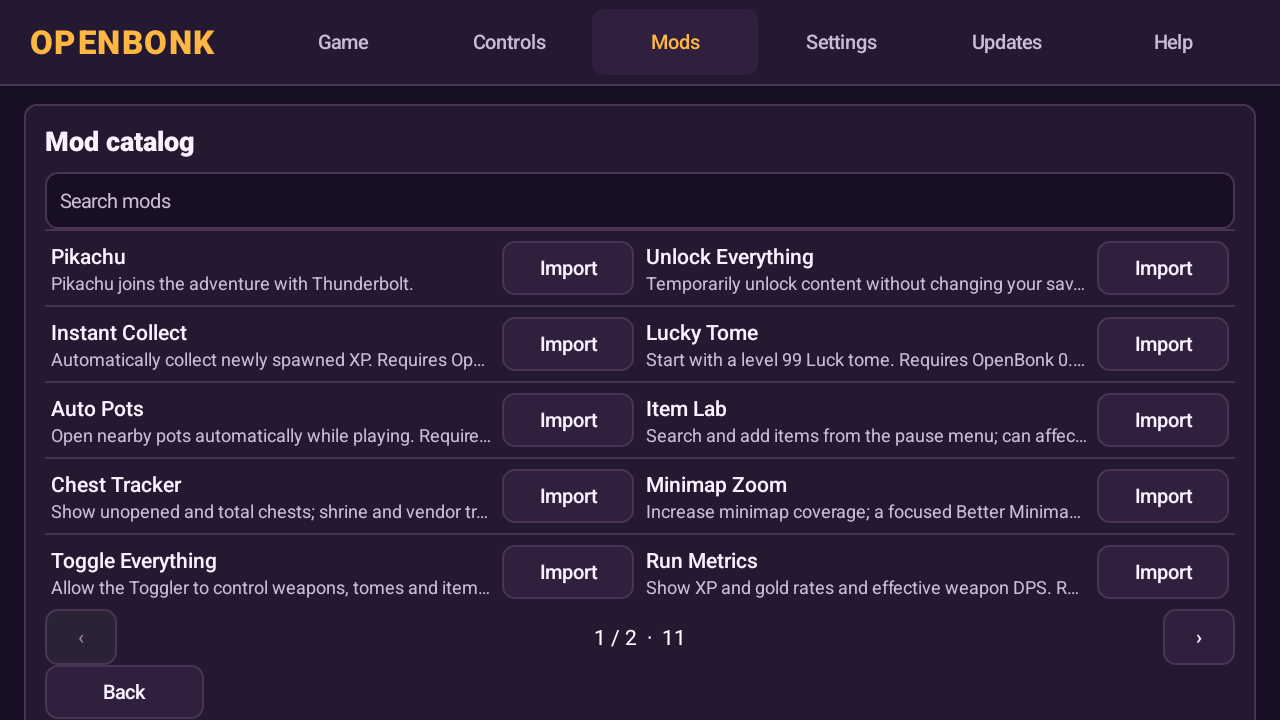
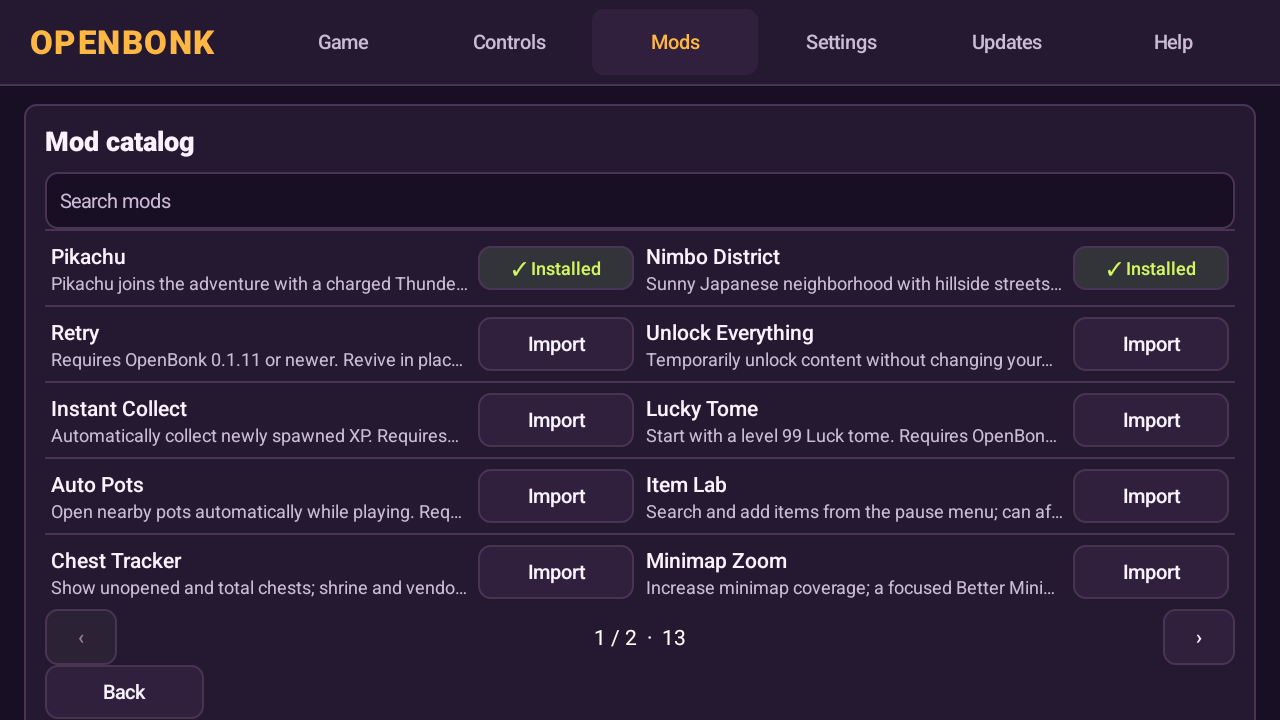
Refresh the README for the mod catalog, content mods and PC aspect
Document the current beta: catalog updates and auto-enabled content mods,
Nimbo District and the charged Thunderbolt example, the render resolution and
16:9 (PC) aspect options, touch aiming, the launcher data flow, and the
installer/update behavior. Refresh the catalog screenshot and add the display
settings and Nimbo screenshots. Update the modding guide to match the new
import/update behavior.

diff --git a/README.md b/README.md
@@ -3,14 +3,15 @@
 [![Release](https://img.shields.io/github/v/release/martin2844/OpenBonk?include_prereleases&label=release&color=ff9f0a)](https://github.com/martin2844/OpenBonk/releases)
 [![Status: beta](https://img.shields.io/badge/status-beta-8b5cf6)](https://github.com/martin2844/OpenBonk/releases)
 [![Android 8.0+](https://img.shields.io/badge/Android-8.0%2B-3ddc84?logo=android&logoColor=white)](#start-playing)
+[![Content mods: experimental](https://img.shields.io/badge/content%20mods-experimental-8b5cf6)](docs/MODDING.md)
 [![Lua mods: experimental](https://img.shields.io/badge/Lua%20mods-experimental-5468ff?logo=lua&logoColor=white)](docs/MODDING.md)
 [![Buy Me a Coffee](https://img.shields.io/badge/Buy%20Me%20a%20Coffee-support-ffdd00?logo=buymeacoffee&logoColor=black)](https://buymeacoffee.com/martin2844)
 
-**Play Megabonk on Android with a native launcher, controller or touch input, and experimental Lua mods.**
+**Play Megabonk on Android with a native launcher, controller or touch input, a PC-style 16:9 render mode and a mod catalog with maps, bosses, characters and Lua weapons.**
 
 OpenBonk is an unofficial community project in beta. Bring your own compatible Steam copy of Megabonk: the launcher prepares its data on your Android device.
 
-[Download the beta](https://github.com/martin2844/OpenBonk/releases) · [Installation guides](#installation-guides) · [Install with an AI agent](#install-with-an-ai-agent) · [Lua modding](docs/MODDING.md) · [Build from source](docs/BUILD_QUICKSTART.md) · [Report a problem](https://github.com/martin2844/OpenBonk/issues) · [Support](#support-the-project)
+[Download the beta](https://github.com/martin2844/OpenBonk/releases) · [Installation guides](#installation-guides) · [Install with an AI agent](#install-with-an-ai-agent) · [Mods](#mods) · [Display and performance](#display-and-performance) · [Build from source](docs/BUILD_QUICKSTART.md) · [Report a problem](https://github.com/martin2844/OpenBonk/issues) · [Support](#support-the-project)
 
 ## Support the project
 
@@ -24,16 +25,30 @@ If you enjoy OpenBonk and would like to support its development, you can [buy Ma
 | --- | --- |
 | ![The Controls tab with touch and controller options](docs/screenshots/launcher-controls.png) | ![The paginated mod catalog in the OpenBonk launcher](docs/screenshots/launcher-mods.png) |
 
+![Game resolution, scale and PC-style 16:9 aspect settings](docs/screenshots/launcher-settings.png)
+
+The launcher handles the whole device-side flow: it verifies and migrates the prepared game data, keeps a save profile you can export and restore, applies the display and performance settings before the game starts, and manages mods from a curated catalog.
+
+## What's in the beta
+
+- **Native Android launcher** in English and Spanish, with game-data import and migration, profile export/import, update checks and mod management.
+- **Touch or controller**: on-screen sticks and buttons with a layout editor (visibility, opacity, snapping and saved profiles) or a gamepad.
+- **Render resolution and PC aspect**: choose a scale or a fixed height, plus a **16:9 (PC)** mode that keeps the desktop framing on tall 20:9 phones.
+- **Mod catalog**: installed first, one-tap **Update** when a newer version exists, and content mods are enabled automatically after installing or updating.
+- **Content mods (API 4)**: procedural maps with streetscapes, stage environments, custom enemies and bosses, rewards and level-4 attack options such as elemental volleys.
+- **Lua mods (API 1–3)**: stat hooks, items, characters and weapons, including the charged Thunderbolt in the Pikachu mod.
+- **Built-in QA probes**: intent-gated checks that drive real runs and verify encounters, bosses, rewards, saves, mods and rendering on an emulator.
+
 ## Start playing
 
-1. Download `OpenBonk.apk` from the newest [beta release](https://github.com/martin2844/OpenBonk/releases). The ZIP helpers referenced in the guides are available in the [0.1.2 beta package](https://github.com/martin2844/OpenBonk/releases/tag/v0.1.2-beta); use the APK from the newest release.
+1. Download `OpenBonk.apk` from the newest [beta release](https://github.com/martin2844/OpenBonk/releases).
 2. Create a ZIP containing the `Megabonk_Data` folder from your own compatible Steam installation. The ZIP must be no larger than **1 GiB**; the guide explains how to create a smaller ZIP if necessary.
 3. Copy `OpenBonk.apk` and your private game-data ZIP to Android. Install and open the APK, choose **Megabonk game files ZIP**, and wait for **Data ready**.
 4. Choose **Touch** or **Controller** in **Controls**, then return to **Game** and press **Play**.
 
 OpenBonk requires **64-bit Android 8 or later**. It has been tested on a Retroid Pocket 5, an iPlay 70 mini Pro and a Xiaomi phone. Device compatibility is still being established. Back up existing progress before replacing or uninstalling an app.
 
-Install newer official APKs over your existing app to keep your profile. A ZIP saved with **Export profile** can also be restored with **Import profile ZIP** on a newer release. Keep a pre-update export if you plan to return to an older build.
+Install newer official APKs over your existing app to keep your profile. The launcher migrates the previous version's game data and clears the Unity metadata cache on the normal **Play** path, so always start the game from the launcher after an update. A ZIP saved with **Export profile** can also be restored with **Import profile ZIP** on a newer release. Keep a pre-update export if you plan to return to an older build.
 
 ![OpenBonk gameplay in Forest using touch controls](docs/screenshots/gameplay.png)
 
@@ -91,25 +106,44 @@ anything. If a step fails, explain what happened and help me troubleshoot.
 
 The beta includes an in-game layout editor with individual visibility and opacity, grid snapping, saved profiles and optional auto-run. Tap **Edit** at the bottom of the game screen to open it, then tap **Done** to return to play. See the [touch controls guide](docs/TOUCH_CONTROLS.md).
 
+Touch controls follow the same actions as a controller, including **Aim**, which the charged weapons use. The overlay hides while menus or reward windows are open.
+
+## Display and performance
+
+Open **Settings → Game resolution** in the launcher:
+
+- **Game** keeps the game's own resolution selection; **Native**, **75%** and **50%** scale the whole screen, and **540p / 720p / 1080p / 1440p** set a fixed height. A custom height from 240 to 2160 is also available.
+- **Screen / 16:9 (PC) / 4:3** chooses the render aspect. **16:9 (PC)** renders a 16:9 backbuffer at the selected height (for example 1280×720) and lets the display stretch it to fill a tall phone, so menus, HUD and gameplay keep the desktop framing instead of looking small on a 20:9 panel.
+
+The launcher applies these settings before the first scene. Lower heights help on weaker GPUs; the 16:9 mode trades a little horizontal stretch for the PC layout.
+
 ## Mods
 
-Open **Mods** in the launcher and choose **Browse mods** or **Import ZIP**. Enable the mods you want in **Manage mods**. New imports and updates start disabled.
+Open **Mods** in the launcher and choose **Browse mods** or **Import ZIP**.
 
-[Retry](mods/retry/) lets you revive in the same run and requires beta 0.1.11 or newer. The [Lua modding guide](docs/MODDING.md) covers the package format and includes examples such as the experimental [Pikachu mod](mods/pikachu/README.md).
+- The catalog lists **installed mods first**. An installed mod with a newer catalog version shows **Update**; one tap downloads, verifies the size and SHA-256, replaces it and leaves it **enabled**.
+- **Content mods** (maps, enemies, bosses, characters) are enabled automatically when installed or updated. **Lua mods** keep the default declared in their manifest; legacy packages without a version show **✓ Installed** and can be replaced from the mod details dialog.
+- **Manage mods** still lets you enable or disable any installed mod and restore the previous version.
 
-![Pikachu selected in the OpenBonk character menu](docs/screenshots/pikachu.png)
+Examples in this repository:
 
-The Lua interface is under development. It offers specific stat hooks and experimental content callbacks; it does not yet expose every game system or provide automatic compatibility with other recomp projects. Install mods from sources you trust: the current sandbox is not a security boundary.
+- [Distrito Nimbo / Nimbo District](mods/distrito-nimbo/) — a procedurally generated Japanese neighborhood with hillside streets, shops, vending machines, gachapon, lanterns, moai shrines, Mewtwo bald-head statues, ten animated Pokémon species and three huge bosses that throw elemental volleys.
+- [Pikachu](mods/pikachu/) — an API 3 character with the charged **Thunderbolt**: five seconds of charge, then press **Aim** to discharge blue lightning around Pikachu.
+- [Retry](mods/retry/), [Lucky Tome](mods/lucky-tome/), [Offer Tools](mods/offer-tools/) and other small stat and item mods.
+
+![Nimbo District's Shrine of Balance using the stone Mewtwo statue](docs/screenshots/nimbo.png)
+
+The Lua interface is under development. It offers specific stat hooks and experimental content callbacks; it does not yet expose every game system or provide automatic compatibility with other recomp projects. Package IDs, supported hooks and limits are documented in the [modding guide](docs/MODDING.md). Install mods from sources you trust: the current sandbox is not a security boundary.
 
 ## Source and development
 
-The repository contains reconstructed C# game scripts, the Android launcher and import code, a native Lua bridge, shaders and development tools. The code is a reconstruction, not a byte-for-byte decompilation.
+The repository contains reconstructed C# game scripts, the Android launcher and import code, a native Lua bridge, shaders, authoring tools and 250+ intent-gated QA probes. The code is a reconstruction, not a byte-for-byte decompilation.
 
 - [Local build quickstart](docs/BUILD_QUICKSTART.md) — create a private research APK using compatible local game files and the required tools.
 - [Build status and limitations](docs/BUILDING.md) — dependencies, verification results and known gaps.
 - [Unity source](unity/OpenBonk/Assets/) · [Lua runtime](native/lua/) · [Mod examples](mods/) · [Preparation tools](tools/)
 
-Building Android requires a compatible local Steam installation, Unity with Android support, AssetRipper and other dependencies; generated game data and signing keys are not included. A fresh clone has produced a playable Android build, but the exact published APK has not yet been independently rebuilt from scratch. See [Android build instructions](docs/BUILDING.md).
+Building Android requires a compatible local Steam installation, Unity 2023.2 with Android support, AssetRipper, the NDK and other dependencies; generated game data, the game OBB and signing keys are not included. A fresh clone has produced a playable Android build, but the exact published APK has not yet been independently rebuilt from scratch. See [Android build instructions](docs/BUILDING.md).
 
 ## Privacy and attribution
 

diff --git a/docs/MODDING.md b/docs/MODDING.md
@@ -6,14 +6,14 @@ OpenBonk's mod API is experimental and specific to OpenBonk. Mods can use suppor
 
 1. Download or build a compatible mod ZIP and copy it to the Android device.
 2. Open the OpenBonk **launcher** and choose **Import mod**. Select the ZIP using Android's file picker.
-3. Open **Manage mods** and enable the imported mod. New imports and updates start disabled.
-4. Press **Play** and start a new run. If you update a mod, enable it again in **Manage mods**.
+3. Content mods are enabled automatically; Lua mods keep the `enabled` value from their manifest. You can change any mod in **Manage mods**.
+4. Press **Play** and start a new run. Updating a content mod from the catalog keeps it enabled.
 
 The [Pikachu example](../mods/pikachu/README.md) adds an experimental character and weapon. Its guide links to the downloadable ZIP and explains how to build it from the checked-in files; the mod is not built into the APK. Additional examples are under [`mods/`](../mods/).
 
 ## Online catalog
 
-In beta 0.1.2, the launcher's **Mods → Browse mods** can search the curated [mod catalog](../mods/catalog/index.json), download a selected ZIP, check its size and SHA-256, and pass it through the normal mod importer. Imports start disabled: enable them under **Manage mods**. A checksum detects corrupt or unexpected downloads; it does not make a mod trustworthy.
+In beta 0.1.2, the launcher's **Mods → Browse mods** can search the curated [mod catalog](../mods/catalog/index.json), download a selected ZIP, check its size and SHA-256, and pass it through the normal mod importer. Installed mods sort first, a newer version shows **Update**, and a content mod is enabled after installing or updating. A checksum detects corrupt or unexpected downloads; it does not make a mod trustworthy.
 
 To propose a catalog entry, open a pull request updating the index with the mod ID, name, description, version, GitHub release ZIP URL, exact byte size and SHA-256. The ZIP must use the documented mod format and its manifest ID must match the entry. Downloads currently support GitHub release assets only. Keep old release assets available for reproducibility.
 
